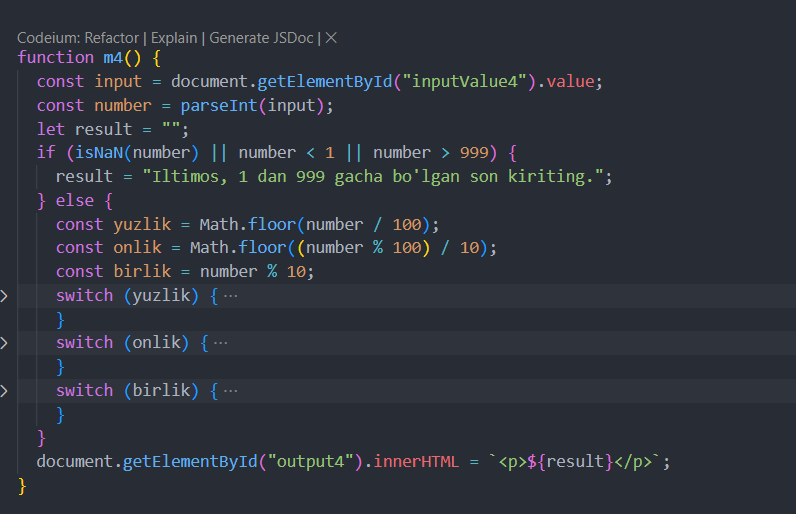
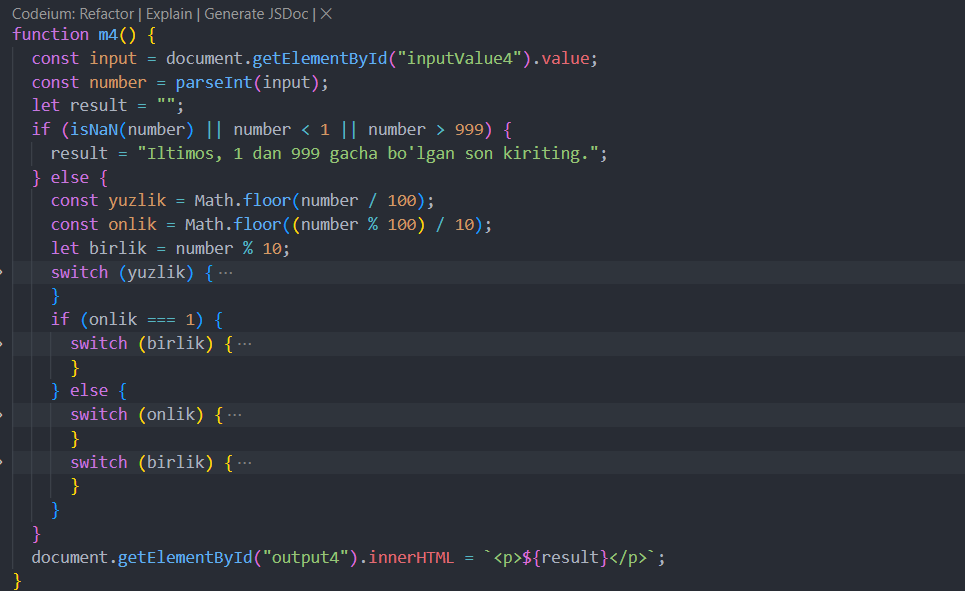
Mistake

diff --git a/app.js b/app.js
@@ -66,7 +66,7 @@ function m4() {
   } else {
     const yuzlik = Math.floor(number / 100);
     const onlik = Math.floor((number % 100) / 10);
-    const birlik = number % 10;
+    let birlik = number % 10;
     switch (yuzlik) {
       case 1:
         result += "Bir yuz ";
@@ -96,68 +96,95 @@ function m4() {
         result += "To'qqiz yuz ";
         break;
     }
-    switch (onlik) {
-      case 1:
-        switch (birlik) {
-          case 0:
-            result += "O'n";
-            break;
-        }
-        birlik = 0;
-        break;
-      case 2:
-        result += "Yigirma ";
-        break;
-      case 3:
-        result += "O'ttiz ";
-        break;
-      case 4:
-        result += "Qirq ";
-        break;
-      case 5:
-        result += "Ellik ";
-        break;
-      case 6:
-        result += "Oltmish ";
-        break;
-      case 7:
-        result += "Yetmish ";
-        break;
-      case 8:
-        result += "Sakson ";
-        break;
-      case 9:
-        result += "To'qson ";
-        break;
-    }
-    switch (birlik) {
-      case 1:
-        result += "bir";
-        break;
-      case 2:
-        result += "ikki";
-        break;
-      case 3:
-        result += "uch";
-        break;
-      case 4:
-        result += "to'rt";
-        break;
-      case 5:
-        result += "besh";
-        break;
-      case 6:
-        result += "olti";
-        break;
-      case 7:
-        result += "yetti";
-        break;
-      case 8:
-        result += "sakkiz";
-        break;
-      case 9:
-        result += "to'qqiz";
-        break;
+    if (onlik === 1) {
+      switch (birlik) {
+        case 0:
+          result += "O'n";
+          break;
+        case 1:
+          result += "O'n bir";
+          break;
+        case 2:
+          result += "O'n ikki";
+          break;
+        case 3:
+          result += "O'n uch";
+          break;
+        case 4:
+          result += "O'n to'rt";
+          break;
+        case 5:
+          result += "O'n besh";
+          break;
+        case 6:
+          result += "O'n olti";
+          break;
+        case 7:
+          result += "O'n yetti";
+          break;
+        case 8:
+          result += "O'n sakkiz";
+          break;
+        case 9:
+          result += "O'n to'qqiz";
+          break;
+      }
+    } else {
+      switch (onlik) {
+        case 2:
+          result += "Yigirma ";
+          break;
+        case 3:
+          result += "O'ttiz ";
+          break;
+        case 4:
+          result += "Qirq ";
+          break;
+        case 5:
+          result += "Ellik ";
+          break;
+        case 6:
+          result += "Oltmish ";
+          break;
+        case 7:
+          result += "Yetmish ";
+          break;
+        case 8:
+          result += "Sakson ";
+          break;
+        case 9:
+          result += "To'qson ";
+          break;
+      }
+      switch (birlik) {
+        case 1:
+          result += "bir";
+          break;
+        case 2:
+          result += "ikki";
+          break;
+        case 3:
+          result += "uch";
+          break;
+        case 4:
+          result += "to'rt";
+          break;
+        case 5:
+          result += "besh";
+          break;
+        case 6:
+          result += "olti";
+          break;
+        case 7:
+          result += "yetti";
+          break;
+        case 8:
+          result += "sakkiz";
+          break;
+        case 9:
+          result += "to'qqiz";
+          break;
+      }
     }
   }
   document.getElementById("output4").innerHTML = `<p>${result}</p>`;
@@ -182,15 +209,12 @@ function m5() {
   }
 }
 
-
-
-
 function m6() {
   const input_61 = document.getElementById("inputValue6_1").value;
-  const input_62 = document.getElementById("inputValue6_2").value; 
-  const Y = input_61.trim().toUpperCase(); 
-  const K = parseInt(input_62); 
-  let finalPosition = Y; 
+  const input_62 = document.getElementById("inputValue6_2").value;
+  const Y = input_61.trim().toUpperCase();
+  const K = parseInt(input_62);
+  let finalPosition = Y;
   if (K === 1) {
     if (Y === "S") finalPosition = "g";
     else if (Y === "q") finalPosition = "S";
@@ -206,12 +230,10 @@ function m6() {
   } else {
     finalPosition = "Noma'lum komanda";
   }
-  document.getElementById("output6").innerHTML = `Final yo'nalish: ${finalPosition}`;
+  document.getElementById(
+    "output6"
+  ).innerHTML = `Final yo'nalish: ${finalPosition}`;
 }
-
-
-
-
 
 // SOME FUNCTION -=-=-=-=-=-=-=-=-=-=-=-=-=-=-=-=-=-=-=-=-=-=-=-=-=-=-=-=-=-=-=-=-=-
 
